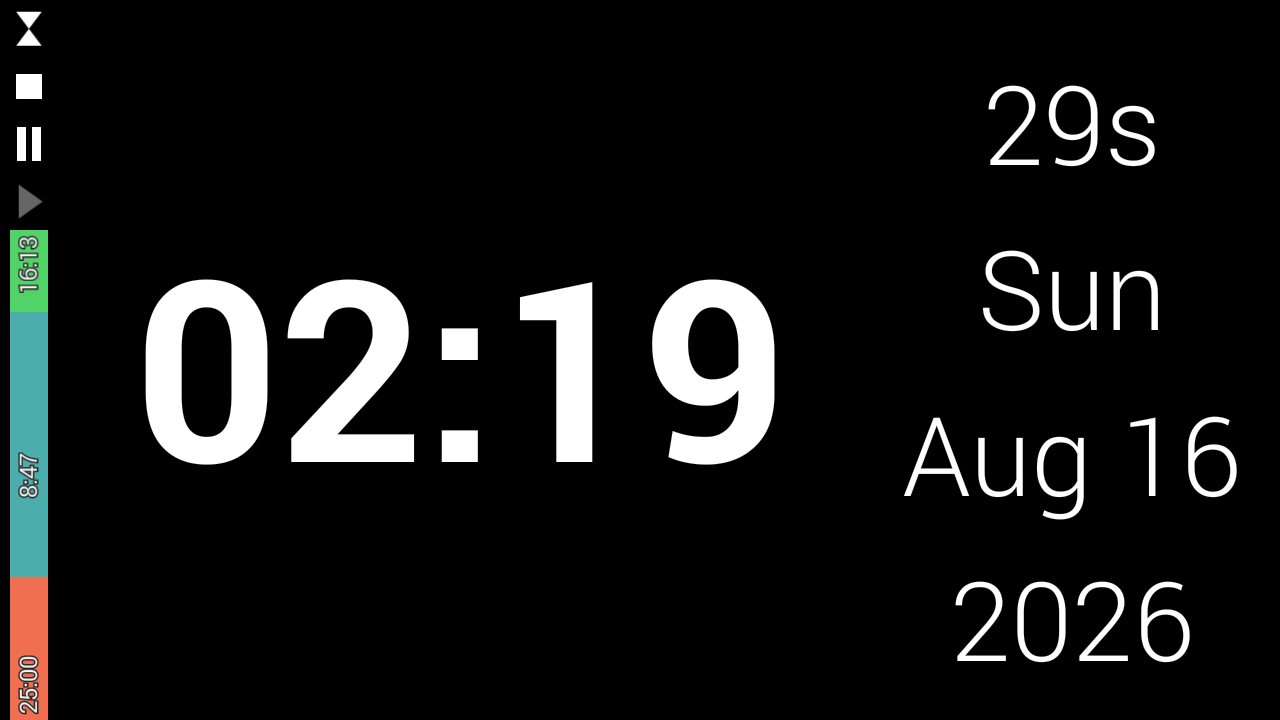
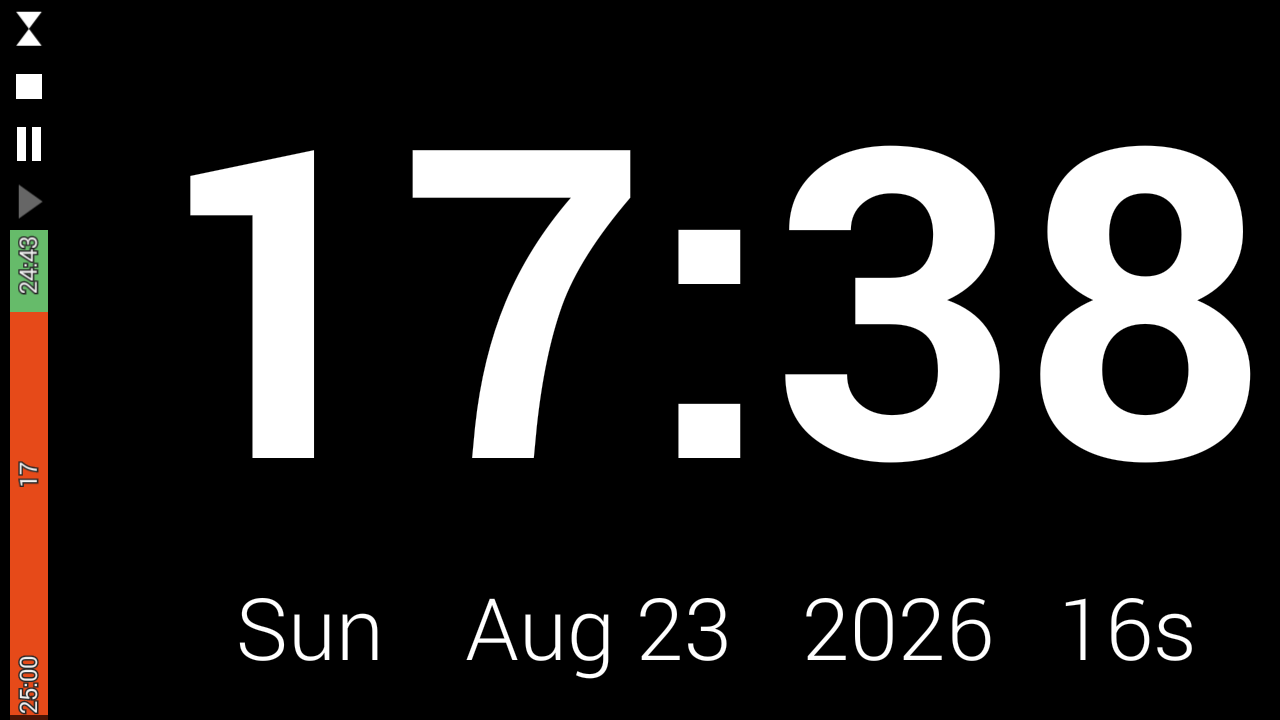
Retake the landscape screenshots for the new arrangement

diff --git a/README.ko.md b/README.ko.md
@@ -109,7 +109,7 @@ F-Droid 앱은 업데이트할 때마다 서명도 검사합니다.
 
 | 가로(눕힌 화면) | 세로(세운 화면) |
 |---|---|
-| <img src="docs/screenshots/timer-landscape.png" alt="가로 화면: 왼쪽에 세로 타이머 띠가 있고, 첫 구간은 지난 만큼 빨강 남은 만큼 청록이며 그 위에 초록 두 번째 구간이 있고, 옆에 시계가 있다" width="420"> | <img src="docs/screenshots/timer-portrait.png" alt="세로 화면: 위쪽 가로 타이머 띠에 25:00, 8:21, 16:39이 적혀 있고 막대가 일부 차 있으며 그 아래 시계가 있다" width="210"> |
+| <img src="docs/screenshots/timer-landscape.png" alt="가로 화면: 왼쪽에 세로 타이머 띠가 있고, 진행 중인 구간은 지난 만큼 주황이며 그 위에 초록 구간이 있고, 옆에 시계와 그 아래 한 줄짜리 날짜가 있다" width="420"> | <img src="docs/screenshots/timer-portrait.png" alt="세로 화면: 위쪽 가로 타이머 띠에 25:00, 8:21, 16:39이 적혀 있고 막대가 일부 차 있으며 그 아래 시계가 있다" width="210"> |
 
 25분짜리 작업 구간을 8분 지난 참이고, 뒤에 5분 휴식이 기다리고 있습니다. 꺼 두면 시계는 예전
 그대로입니다. 띠도, 조작 버튼도, 덧그려지는 것도 없습니다.

diff --git a/README.md b/README.md
@@ -109,7 +109,7 @@ length, how far into it you are, and what is left of it.
 
 | Landscape (wide) | Portrait (tall) |
 |---|---|
-| <img src="docs/screenshots/timer-landscape.png" alt="Landscape: the timer strip down the left, its first interval part red for the time already spent and part teal for the time to come, a green second interval above it, and the clock beside it" width="420"> | <img src="docs/screenshots/timer-portrait.png" alt="Portrait: the timer strip across the top reading 25:00, 8:21 and 16:39, with the bar part filled, above the clock" width="210"> |
+| <img src="docs/screenshots/timer-landscape.png" alt="Landscape: the timer strip down the left, its running interval part orange for the time already spent, a green interval above it, and the clock beside it with the date on one line underneath" width="420"> | <img src="docs/screenshots/timer-portrait.png" alt="Portrait: the timer strip across the top reading 25:00, 8:21 and 16:39, with the bar part filled, above the clock" width="210"> |
 
 Eight minutes into a twenty-five minute stretch of work, with five minutes of rest waiting behind
 it. Switched off, the clock is exactly as it was: no strip, no controls, nothing extra drawn.
